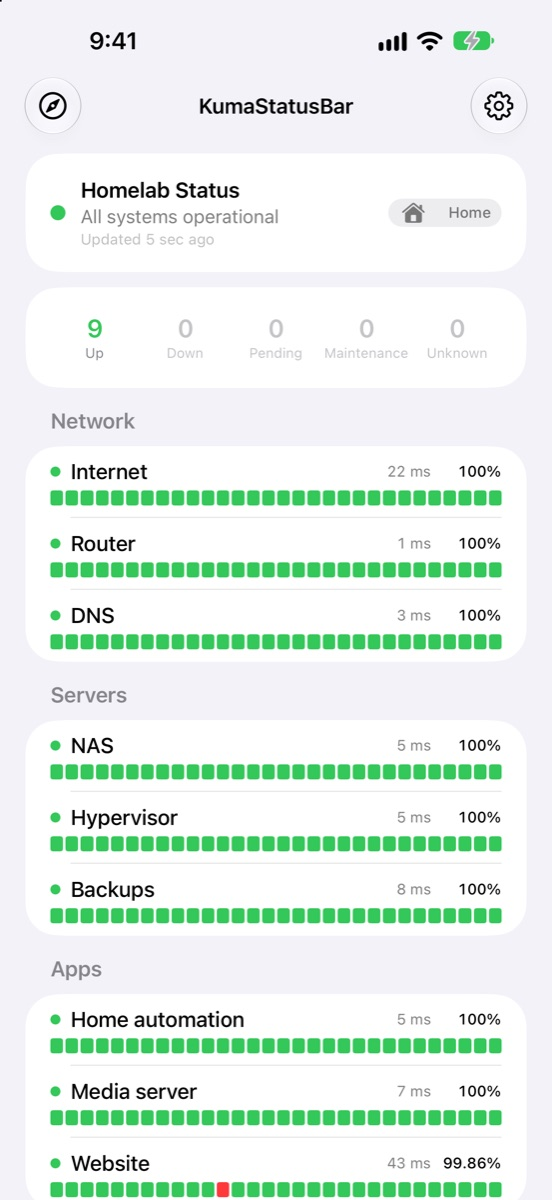
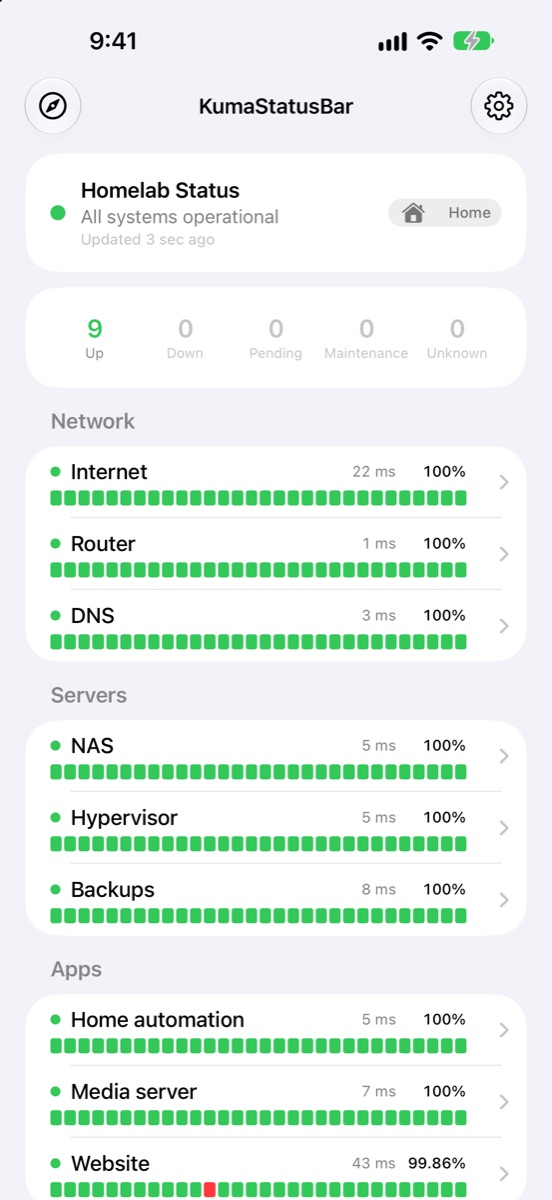
Update KumaStatusBar pages
Re-import from the KumaStatusBar repo for 1.9.0: reposition it as a
status page monitor, add FAQ entries and the monitor details section,
and refresh the iPhone screenshots.

diff --git a/static/kumastatusbar/index.html b/static/kumastatusbar/index.html
@@ -42,6 +42,7 @@
   .hero h1 { font-size: clamp(34px, 6vw, 60px); line-height: 1.06; letter-spacing: -0.02em; margin: 0 0 18px; max-width: 14em; }
   .hero p.lede { font-size: clamp(18px, 2.2vw, 22px); color: rgba(255,255,255,0.88); max-width: 34em; margin: 0 0 28px; }
   .ctas { display: flex; flex-wrap: wrap; gap: 12px; }
+  .points { font-weight: 600; opacity: 0.92; margin: -4px 0 22px; font-size: 17px; }
   .btn { display: inline-flex; align-items: center; gap: 8px; padding: 12px 20px; border-radius: 12px;
          font-weight: 600; text-decoration: none; font-size: 16px; }
   .btn.primary { background: #fff; color: #0b4a3d; }
@@ -130,9 +131,10 @@
     <div>
     <div class="brand"><img src="images/icon.png" alt=""><span>KumaStatusBar</span></div>
     <h1>Your homelab’s status, in the menu bar and on your iPhone.</h1>
-    <p class="lede">KumaStatusBar puts your Uptime Kuma status page one click away on your Mac and a glance away on
-      your iPhone, and tells you the moment something goes down, whether you're at your desk or on the other side
-      of the world.</p>
+    <p class="lede">KumaStatusBar watches Uptime Kuma status pages, your homelab's, your team's or any other page you
+      can reach, one click away on your Mac and a glance away on your iPhone. It tells you the moment something
+      goes down, with no Uptime Kuma login or API key to hand over.</p>
+    <p class="points">Home and away · Synced across Mac and iPhone · Free, no data collected</p>
     <div class="ctas">
       <a class="btn primary" href="https://apps.apple.com/us/app/kumastatusbar/id6820613913">Free on the App Store · Mac and iPhone</a>
       <a class="btn ghost" href="#setup">How it works</a>
@@ -270,7 +272,7 @@
     <div class="wrap">
       <p class="eyebrow">Setup</p>
       <h2>Up and running in a few minutes</h2>
-      <p class="section-lede">KumaStatusBar reads your public status page, so there's no Uptime Kuma password or API key to hand over.</p>
+      <p class="section-lede">KumaStatusBar reads your status page, public or behind Cloudflare Access, so there's no Uptime Kuma password or API key to hand over.</p>
       <div class="steps">
         <div class="step">
           <h3>Make a status page</h3>
@@ -342,7 +344,13 @@
       <p class="eyebrow">Questions</p>
       <h2>FAQ</h2>
       <details><summary>Does it need my Uptime Kuma login or an API key?</summary>
-        <p>No. It reads the same public status page you'd open in a browser, so it only sees what you've chosen to put on that page.</p></details>
+        <p>No. It reads the status page you'd open in a browser, so it only sees what's on that page, and it can't change anything on the server. Unlike Uptime Kuma management apps, it never logs in.</p></details>
+      <details><summary>Can I watch a status page I don't run?</summary>
+        <p>Yes, if you can open it in a browser: a team's or provider's Uptime Kuma status page works the same as your own. If it's behind Cloudflare Access, you'll need a service token from whoever runs it.</p></details>
+      <details><summary>How is this different from Uptime Kuma manager apps?</summary>
+        <p>Manager apps log in to Uptime Kuma to add and change monitors. KumaStatusBar doesn't: it watches your status pages, so there's no admin access to hand over. It's built for checking in from anywhere: direct at home, through your tunnel when away, in the Mac menu bar and on iPhone with your settings synced, for free and without collecting any data.</p></details>
+      <details><summary>Can I watch more than one status page?</summary>
+        <p>Not yet: KumaStatusBar watches one status page, with separate home and remote addresses for it. Watching several pages at once is planned.</p></details>
       <details><summary>Can I keep my status page private?</summary>
         <p>Yes. Put it behind Cloudflare Access and give KumaStatusBar a service token. On your home network it can connect to Uptime Kuma directly, with no token involved.</p></details>
       <details><summary>Do I need Cloudflare?</summary>

diff --git a/static/kumastatusbar/support.html b/static/kumastatusbar/support.html
@@ -100,7 +100,12 @@
   own banners. To see each monitor's tags next to its name, turn on
   <strong>Show monitor tags</strong> (<strong>Settings → General</strong> on the Mac, <strong>Settings →
   Display</strong> on iPhone); the status page needs <strong>Show Tags</strong> turned on in Uptime Kuma. When
-  there isn't room for every tag, hover over them on the Mac, or tap them on iPhone, to see them all.</p>
+  there isn't room for every tag, hover over them on the Mac.</p>
+  <p><strong>Monitor details:</strong> click a monitor in the Mac popover, or tap it on iPhone, to see its details:
+  the latest message, a response-time chart, average and range, 24-hour uptime, recent outages, and all its tags.
+  The monitor's address and certificate expiry appear too when the status page shares them (the monitor's option
+  to show its URL, and the page's <strong>Show Certificate Expiry</strong>). Status pages share the last 100
+  checks, so that's the history shown.</p>
 
   <h2>Using a Mac and an iPhone</h2>
   <ul>

diff --git a/static/kumastatusbar/privacy.html b/static/kumastatusbar/privacy.html
@@ -55,7 +55,7 @@
   to include it). It's shared only where you send or show it, and the app asks before using one.</p>
 
   <h2>Who the app talks to</h2>
-  <p>KumaStatusBar only connects to the Uptime Kuma addresses you enter, to read your public status page. The
+  <p>KumaStatusBar only connects to the Uptime Kuma addresses you enter, to read the status page. The
   Cloudflare Access token is only sent to your remote address, never to your home address. The app has no
   analytics, advertising, crash reporting or tracking of any kind, and no servers of its own.</p>
 
